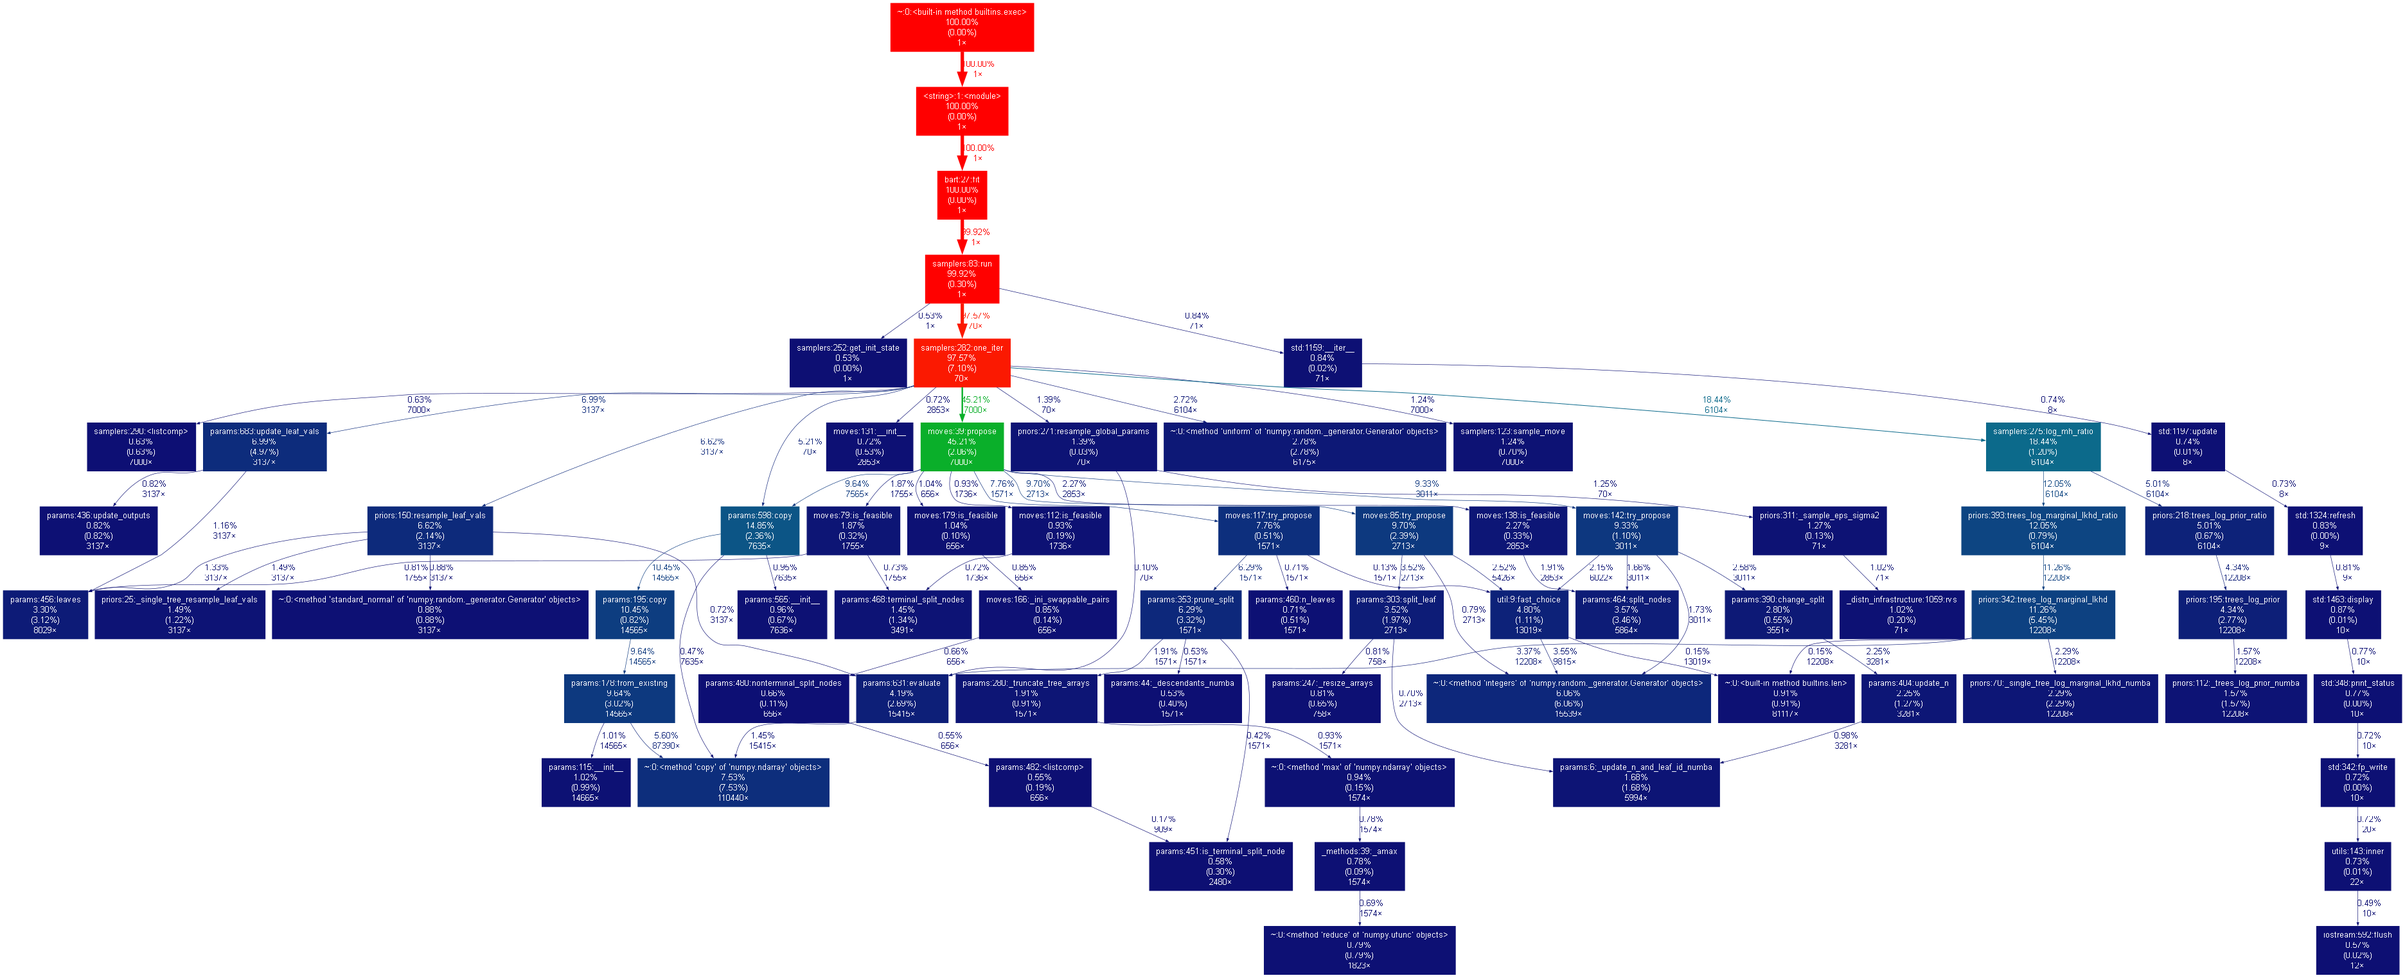
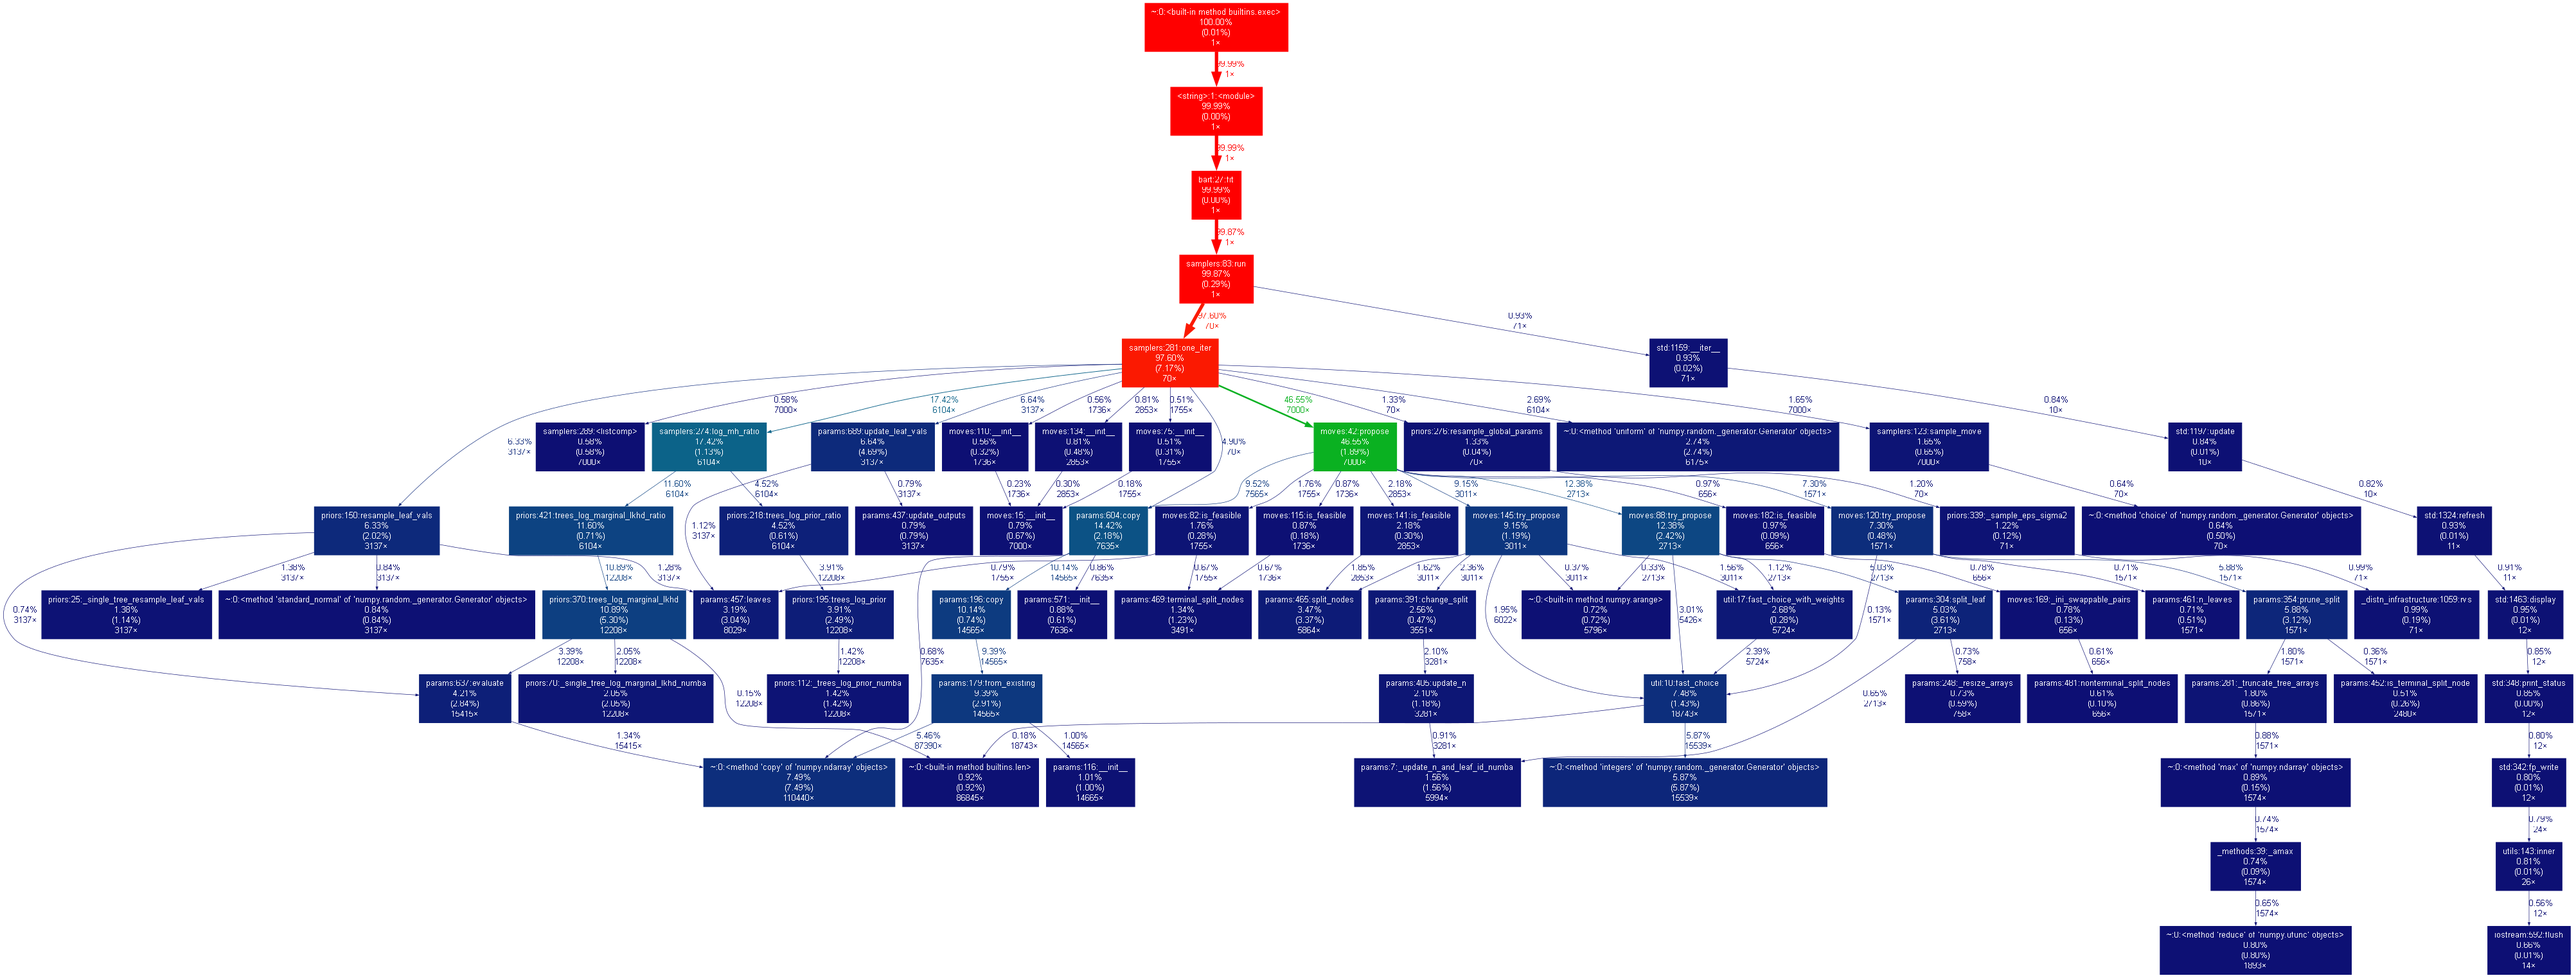
Adapt to the changes from master

diff --git a/bart_playground/moves.py b/bart_playground/moves.py
@@ -261,7 +261,7 @@ class MultiGrow(Grow):
         max_log_bwd = np.max(log_bwd_weights)
         bwd_weights = np.exp(log_bwd_weights - max_log_bwd)
         weights = bwd_weights / bwd_weights.sum()
-        idx = fast_choice_weight(generator, weights)[0] # Select y
+        idx = fast_choice_with_weights(generator, np.arange(len(candidates)), weights) # Select y
         node_id, var, threshold, _ = candidates[idx]
         log_weight_yj = log_bwd_weights[[idx]]
 
@@ -358,7 +358,7 @@ class MultiPrune(Prune):
         max_log_bwd = np.max(log_bwd_weights)
         bwd_weights = np.exp(log_bwd_weights - max_log_bwd)
         weights = bwd_weights / bwd_weights.sum()
-        idx = fast_choice_weight(generator, weights)[0]
+        idx = fast_choice_with_weights(generator, np.arange(len(candidates)), weights)
         node_id, _ = candidates[idx]
         log_weight_yj = log_bwd_weights[[idx]]
 
@@ -475,7 +475,7 @@ class MultiChange(Change):
         max_log_bwd = np.max(log_bwd_weights)
         bwd_weights = np.exp(log_bwd_weights - max_log_bwd)
         weights = bwd_weights / bwd_weights.sum()
-        idx = fast_choice_weight(generator, weights)[0]
+        idx = fast_choice_with_weights(generator, np.arange(len(candidates)), weights)
         node_id, var, threshold, _ = candidates[idx]
         log_weight_yj = log_bwd_weights[[idx]]
         log_p_bwd = log_weight_yj + np.log(bwd_weights.mean()) + max_log_bwd
@@ -583,7 +583,7 @@ class MultiSwap(Swap):
         max_log_bwd = np.max(log_bwd_weights)
         bwd_weights = np.exp(log_bwd_weights - max_log_bwd)
         weights = bwd_weights / bwd_weights.sum()
-        idx = fast_choice_weight(generator, weights)[0]
+        idx = fast_choice_with_weights(generator, np.arange(len(candidates)), weights)
         parent_id, child_id, _ = candidates[idx]
         log_weight_yj = log_bwd_weights[[idx]]
         log_p_bwd = log_weight_yj + np.log(bwd_weights.mean()) + max_log_bwd

diff --git a/bart_playground/samplers.py b/bart_playground/samplers.py
@@ -7,7 +7,7 @@ from scipy.stats import truncnorm
 
 from .params import Tree, Parameters
 from .moves import all_moves, Move
-from .util import Dataset, fast_choice_weight
+from .util import Dataset
 from .priors import  ComprehensivePrior, ProbitPrior, LogisticPrior
 
 class TemperatureSchedule:
@@ -135,8 +135,7 @@ class Sampler(ABC):
         if self.moves_cache is None or self.moves_cache_iterator is None:
             moves = list(self.proposals.keys())
             move_probs = list(self.proposals.values())
-            idxs = fast_choice_weight(self.generator, weights=move_probs, size=100)
-            self.moves_cache = [all_moves[moves[i]] for i in idxs]
+            self.moves_cache = [all_moves[move] for move in self.generator.choice(moves, size=100, p=move_probs)]
             self.moves_cache_iterator = 0
         move = self.moves_cache[self.moves_cache_iterator]
         self.moves_cache_iterator += 1
